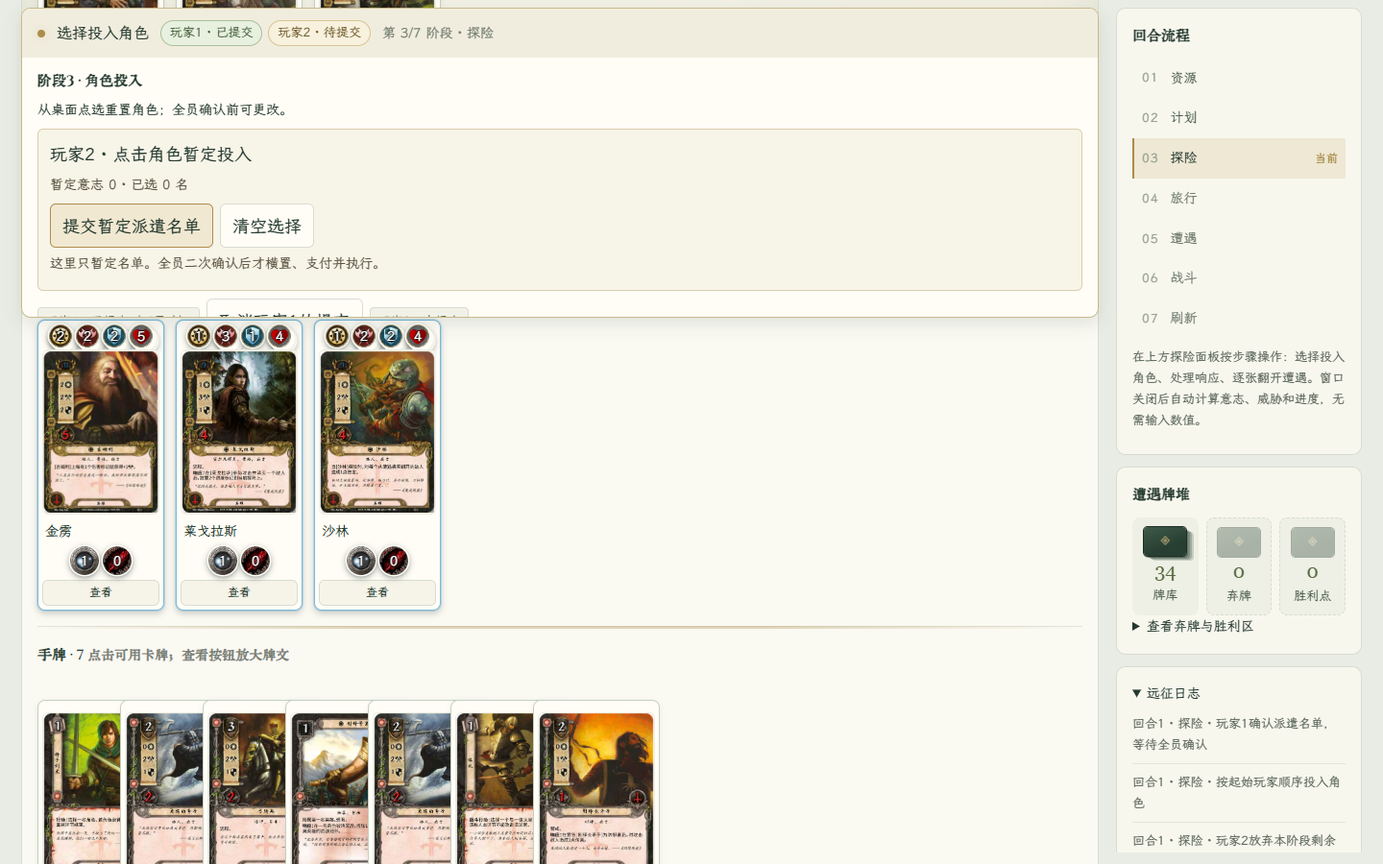
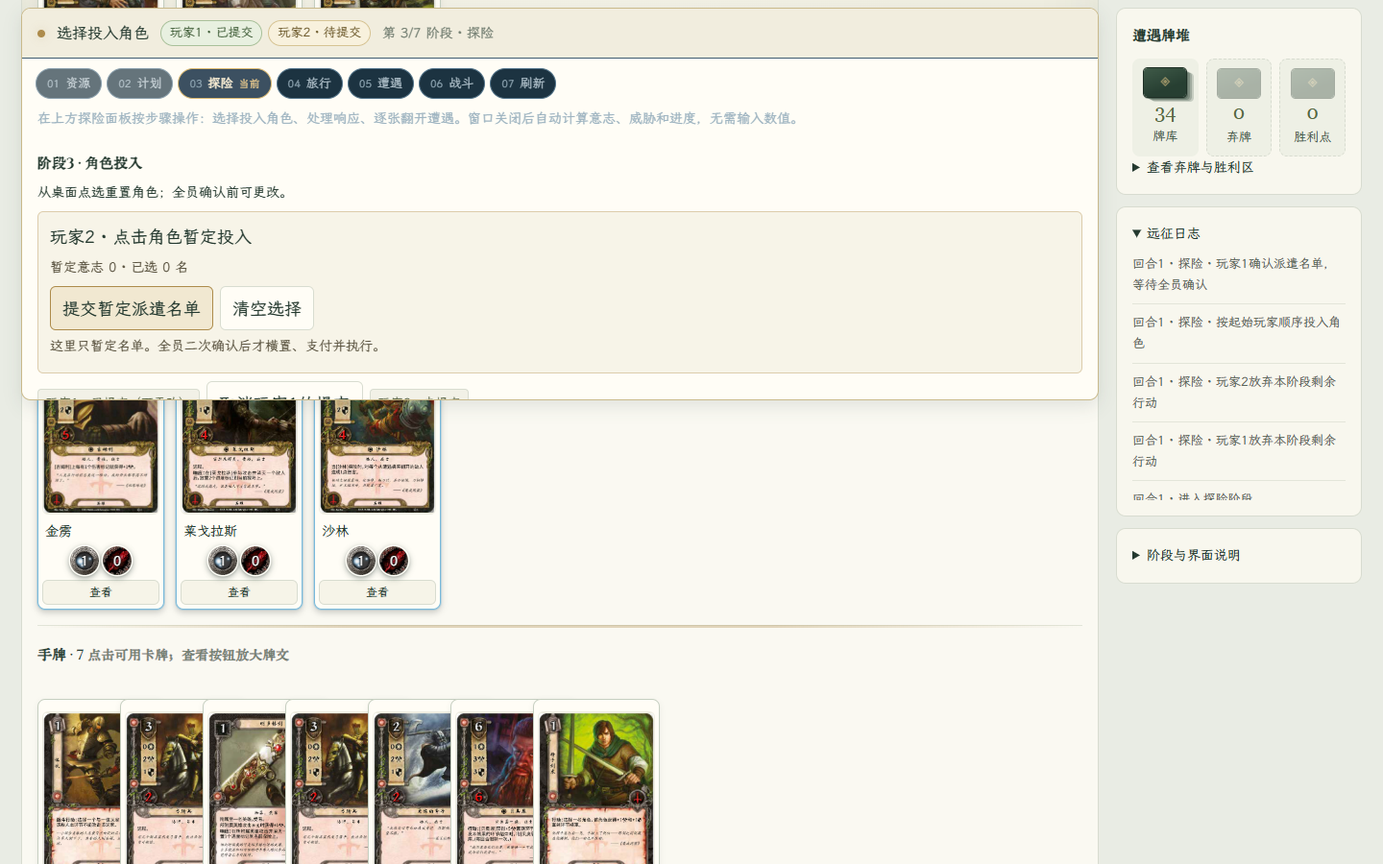
v0.15.40 回合流程与阶段操作合并：横向阶段步骤条嵌入操作面板，移除右侧竖排列表

diff --git a/index.html b/index.html
@@ -491,6 +491,17 @@ body:has(.desktop-table) .expedition-title h1{letter-spacing:-.01em}
 .hand-card.unaffordable .card-face{cursor:not-allowed}
 .hand-card.unaffordable .card-legality{color:#a35446}
 
+/* 9. v0.15.40 回合流程合并：横向阶段步骤条嵌入操作面板，右侧不再单独列表 */
+.operation-dock .phase-rail{display:flex;flex-wrap:wrap;gap:5px;padding:10px 14px 4px;border-top:1px solid #3f5d72}
+.operation-dock .rail-step{display:inline-flex;align-items:center;gap:6px;padding:4px 11px;border:1px solid #55768c;border-left-width:1px;border-radius:999px;color:#aebfc9;background:#1c3341}
+.operation-dock .rail-step>span{font-size:11px;letter-spacing:0;color:#8fa6b3}
+.operation-dock .rail-step b{font-size:13px}
+.operation-dock .rail-step small{font-size:11px;color:#e4c68c;margin-left:0}
+.operation-dock .rail-step.current{background:#3c5061;border-color:#ddbc75;color:#fff2d7}
+.operation-dock .rail-step.past{opacity:.68}
+.phase-hint{margin:0;padding:5px 16px 10px;color:#9db3c0}
+@media(max-width:760px){.operation-dock .phase-rail{padding:8px 10px 2px}.operation-dock .rail-step{padding:3px 8px}.phase-hint{padding:4px 10px 8px}}
+
 </style></head><body>
 <header><nav><button id="tableTab" class="active nav-home" title="回到首页"><svg class="brand-mark" viewBox="0 0 64 64" aria-hidden="true" focusable="false"><defs><linearGradient id="brandGold" x1="10" y1="8" x2="54" y2="57" gradientUnits="userSpaceOnUse"><stop offset="0" stop-color="#fdf4cd"/><stop offset=".32" stop-color="#e3c47a"/><stop offset=".55" stop-color="#a9853f"/><stop offset=".78" stop-color="#e8cb86"/><stop offset="1" stop-color="#fffae0"/></linearGradient><radialGradient id="brandField" cx=".5" cy=".42" r=".58"><stop offset="0" stop-color="#8a4a16"/><stop offset=".46" stop-color="#4a2a10"/><stop offset="1" stop-color="#150e07"/></radialGradient></defs><circle cx="32" cy="32" r="21" fill="#0d1710" fill-opacity=".62"/><circle cx="32" cy="32" r="21" fill="none" stroke="url(#brandGold)" stroke-width="7"/><path d="M14.6 19.2A21 21 0 0 1 32.6 10.9" fill="none" stroke="#fffbe8" stroke-width="2.4" stroke-linecap="round" opacity=".55"/></svg>首页</button><button id="catalogTab">卡牌 <span>55</span></button><button id="decksTab">我的卡组</button><button id="imagesTab">全部卡图</button><button id="helpTab">说明与完成范围</button></nav><div class="history-nav"><button id="navBack" type="button" title="后退" aria-label="后退">←</button><button id="navFwd" type="button" title="前进" aria-label="前进">→</button></div><div class="header-actions"><button id="undo">撤销一步</button><button id="export">导出存档</button><label class="button" for="import">导入存档</label><input id="import" type="file" accept="application/json" hidden></div></header>
 <main id="app"></main><div id="toast" role="status" aria-live="polite"></div>
@@ -8698,7 +8709,7 @@ const WindowUI=(()=>{
 </script><script>
 /* Tabletop view: UI drafts never pay, exhaust, reveal, or bypass phase validation. */
 /* 界面版本徽标唯一来源：须与 CHANGELOG.md 最新条目标题一致（planning-dom-tests 有校验）。 */
-const APP_VERSION='v0.15.39';
+const APP_VERSION='v0.15.40';
 const DesktopUI=(()=>{
  const E=ScenarioEngine,R=E.planning,Q=E.questing,C=E.combat,esc=x=>String(x??'').replace(/[&<>"']/g,c=>({'&':'&amp;','<':'&lt;','>':'&gt;','"':'&quot;',"'":'&#39;'}[c]));
  let combatDraft={key:'',target:null,ids:[]},draftState=null;
@@ -8821,7 +8832,7 @@ const DesktopUI=(()=>{
   /* 玩家状态条：BGA 式汇总每位玩家的威胁／资源／伤害，点按即切换查看（复用 view 动作）。 */
  const tabStats=o=>{const res=o.heroStates?o.heroStates.reduce((n,h)=>n+h.resources,0):0,dmg=o.heroStates?o.heroStates.reduce((n,h)=>n+(h.damage||0),0):0;
   return `<span class="tab-stats">威胁 <b>${o.threat}</b> · 资源 <b>${res}</b> · 伤害 <b>${dmg}</b></span>${s.first===o.id?'<span class="first-mark">起始</span>':''}${o.eliminated?'<span class="elim-mark">淘汰</span>':''}`;};
- return `<div class="desktop-table"><div class="expedition-title"><div><span class="eyebrow">MIDDLE-EARTH EXPEDITION · ${APP_VERSION}</span><h1>${esc(s.session&&s.session.name||sc.name)}</h1></div><span>${s.session&&s.session.name?esc(sc.name)+' · ':''}第 ${s.round} 回合 · ${s.players.length} 人同机${s.session&&s.session.difficulty?' · '+({easy:'简单',normal:'标准',nightmare:'噩梦'}[s.session.difficulty]||''):''}</span><div class="player-tabs" role="group" aria-label="查看玩家">${s.players.map(o=>`<button data-action="desktop" data-desktop="view" data-player="${o.id}" class="${o.id===p.id?'active':''}" aria-pressed="${o.id===p.id}"><b class="tab-name">${esc(o.name)}</b>${tabStats(o)}</button>`).join('')}</div>${b('重新选择剧本','reset')}</div><div class="tabletop-layout"><div class="tabletop-main"><div class="operation-dock" role="region" aria-label="当前操作"><div class="operation-title"><span class="operation-indicator"></span><strong>${esc(prompt(s,m))}</strong><div class="operation-chips">${status(s)?.chips||''}</div><span class="small">第 ${s.phase+1}/7 阶段 · ${E.phases[s.phase]}</span>${next(s)}</div><div class="operation-content">${scorePanel(s)}${PlayerUI.openingPanel(s)}${setupPanel(s)}${s.pending.length?pending():''}${phasePanel(s,p.id,m)}${WindowUI.panel(s)}</div></div><div class="public-table"><div class="quest-location-row"><section class="table-zone quest-zone"><div class="zone-heading"><h2>当前探险 · ${esc(q.stage)}</h2><strong>${q.points?s.progress+' / '+q.points+' 进度':'特殊胜利条件'}</strong></div><div class="quest-display"><div class="quest-art-wrap">${ImageLibrary.art('enc-'+q.id,'',s.setupPending?'A':'B')}${q.points?`<div class="card-tokens quest-tokens" aria-hidden="true">${tk('progress',s.progress)}</div>`:''}</div><div><h3>${esc(q.name)}</h3><p>${esc(s.setupPending?q.front:q.back)}</p><span class="small muted">${esc(E.gate(s)||'满足条件后由规则自动推进')}</span></div></div>${q.points?`<div class="quest-progress" role="progressbar" aria-label="探险进度" aria-valuemin="0" aria-valuemax="${q.points}" aria-valuenow="${s.progress}"><div class="quest-progress-fill" style="width:${Math.min(100,Math.round(s.progress/q.points*100))}%"></div><span class="quest-progress-label">${s.progress} / ${q.points}</span></div>`:''}</section>${row('当前地点',s.active?encounter(s,s.active,'active',m):'','active-zone')}</div>${row('探查区 <span class="threat-total">总威胁 '+E.threat(s)+'</span>',s.staging.map(c=>encounter(s,c,'staging',m)).join(''))}${s.objectives.length?row('剧本目标',s.objectives.map(c=>encounter(s,c,'objective',m)).join('')):''}${others}</div><section class="player-mat"><div class="zone-heading"><h2>${esc(p.name)} · ${esc(p.registeredDeck?.name||'玩家区域')}</h2><span class="own-piles">威胁 ${p.threat}${s.first===p.id?' · 起始玩家':''} · <span class="pile-chip">牌库 <b>${p.playerDeck.length}</b></span> · <span class="pile-chip">弃牌 <b>${p.playerDiscard.length}</b></span></span></div>${row('英雄与盟友 <span class="small muted">盟友区 · '+p.allies.length+'</span>',playerChars(s,p).map(c=>character(s,c,m)).join(''),'own-characters')}${p.attachments.length?row('附属',p.attachments.map(c=>{const meta=R.data(s,c),host=R.find(s,c.target),legal=R.abilitySpec(s,p.id,c.uid).legal;return `<article class="table-card"><button class="card-face" data-action="planning" data-plan="ability" data-player="${p.id}" data-uid="${c.uid}" ${legal?'':'disabled'}>${art(c.code)}</button><div class="table-card-caption"><b>${esc(meta.nameZh)}</b><span>附于 ${esc(host?.meta.nameZh||host?.meta.name||'目标已离场')}</span></div>${inspect(c.code)}</article>`;}).join('')):''}${p.engaged.length?row('交战区',p.engaged.map(c=>encounter(s,c,'engaged',m)).join('')):''}${row('手牌 · '+p.hand.length+' <span class="small muted">点击可用卡牌；查看按钮放大牌文</span>',hand,'hand-zone')}<p class="small muted">同机模式可切换查看每位玩家手牌；不提供联网私密手牌。</p></section></div><aside class="tabletop-rail"><section class="phase-rail"><h2>回合流程</h2>${E.phases.map((name,i)=>`<div class="rail-step ${i===s.phase?'current':i<s.phase?'past':''}" ${i===s.phase?'aria-current="step"':''}><span>${String(i+1).padStart(2,'0')}</span><b>${name}</b>${i===s.phase?'<small>当前</small>':''}</div>`).join('')}<p class="small">${esc(phaseHint())}</p></section><section class="deck-rail"><h2>遭遇牌堆</h2><div class="deck-counts">
+ return `<div class="desktop-table"><div class="expedition-title"><div><span class="eyebrow">MIDDLE-EARTH EXPEDITION · ${APP_VERSION}</span><h1>${esc(s.session&&s.session.name||sc.name)}</h1></div><span>${s.session&&s.session.name?esc(sc.name)+' · ':''}第 ${s.round} 回合 · ${s.players.length} 人同机${s.session&&s.session.difficulty?' · '+({easy:'简单',normal:'标准',nightmare:'噩梦'}[s.session.difficulty]||''):''}</span><div class="player-tabs" role="group" aria-label="查看玩家">${s.players.map(o=>`<button data-action="desktop" data-desktop="view" data-player="${o.id}" class="${o.id===p.id?'active':''}" aria-pressed="${o.id===p.id}"><b class="tab-name">${esc(o.name)}</b>${tabStats(o)}</button>`).join('')}</div>${b('重新选择剧本','reset')}</div><div class="tabletop-layout"><div class="tabletop-main"><div class="operation-dock" role="region" aria-label="当前操作"><div class="operation-title"><span class="operation-indicator"></span><strong>${esc(prompt(s,m))}</strong><div class="operation-chips">${status(s)?.chips||''}</div><span class="small">第 ${s.phase+1}/7 阶段 · ${E.phases[s.phase]}</span>${next(s)}</div><div class="phase-rail phase-steps" role="list" aria-label="回合流程">${E.phases.map((name,i)=>`<div class="rail-step ${i===s.phase?'current':i<s.phase?'past':''}" ${i===s.phase?'aria-current="step"':''}><span>${String(i+1).padStart(2,'0')}</span><b>${name}</b>${i===s.phase?'<small>当前</small>':''}</div>`).join('')}</div><p class="small phase-hint">${esc(phaseHint())}</p><div class="operation-content">${scorePanel(s)}${PlayerUI.openingPanel(s)}${setupPanel(s)}${s.pending.length?pending():''}${phasePanel(s,p.id,m)}${WindowUI.panel(s)}</div></div><div class="public-table"><div class="quest-location-row"><section class="table-zone quest-zone"><div class="zone-heading"><h2>当前探险 · ${esc(q.stage)}</h2><strong>${q.points?s.progress+' / '+q.points+' 进度':'特殊胜利条件'}</strong></div><div class="quest-display"><div class="quest-art-wrap">${ImageLibrary.art('enc-'+q.id,'',s.setupPending?'A':'B')}${q.points?`<div class="card-tokens quest-tokens" aria-hidden="true">${tk('progress',s.progress)}</div>`:''}</div><div><h3>${esc(q.name)}</h3><p>${esc(s.setupPending?q.front:q.back)}</p><span class="small muted">${esc(E.gate(s)||'满足条件后由规则自动推进')}</span></div></div>${q.points?`<div class="quest-progress" role="progressbar" aria-label="探险进度" aria-valuemin="0" aria-valuemax="${q.points}" aria-valuenow="${s.progress}"><div class="quest-progress-fill" style="width:${Math.min(100,Math.round(s.progress/q.points*100))}%"></div><span class="quest-progress-label">${s.progress} / ${q.points}</span></div>`:''}</section>${row('当前地点',s.active?encounter(s,s.active,'active',m):'','active-zone')}</div>${row('探查区 <span class="threat-total">总威胁 '+E.threat(s)+'</span>',s.staging.map(c=>encounter(s,c,'staging',m)).join(''))}${s.objectives.length?row('剧本目标',s.objectives.map(c=>encounter(s,c,'objective',m)).join('')):''}${others}</div><section class="player-mat"><div class="zone-heading"><h2>${esc(p.name)} · ${esc(p.registeredDeck?.name||'玩家区域')}</h2><span class="own-piles">威胁 ${p.threat}${s.first===p.id?' · 起始玩家':''} · <span class="pile-chip">牌库 <b>${p.playerDeck.length}</b></span> · <span class="pile-chip">弃牌 <b>${p.playerDiscard.length}</b></span></span></div>${row('英雄与盟友 <span class="small muted">盟友区 · '+p.allies.length+'</span>',playerChars(s,p).map(c=>character(s,c,m)).join(''),'own-characters')}${p.attachments.length?row('附属',p.attachments.map(c=>{const meta=R.data(s,c),host=R.find(s,c.target),legal=R.abilitySpec(s,p.id,c.uid).legal;return `<article class="table-card"><button class="card-face" data-action="planning" data-plan="ability" data-player="${p.id}" data-uid="${c.uid}" ${legal?'':'disabled'}>${art(c.code)}</button><div class="table-card-caption"><b>${esc(meta.nameZh)}</b><span>附于 ${esc(host?.meta.nameZh||host?.meta.name||'目标已离场')}</span></div>${inspect(c.code)}</article>`;}).join('')):''}${p.engaged.length?row('交战区',p.engaged.map(c=>encounter(s,c,'engaged',m)).join('')):''}${row('手牌 · '+p.hand.length+' <span class="small muted">点击可用卡牌；查看按钮放大牌文</span>',hand,'hand-zone')}<p class="small muted">同机模式可切换查看每位玩家手牌；不提供联网私密手牌。</p></section></div><aside class="tabletop-rail"><section class="deck-rail"><h2>遭遇牌堆</h2><div class="deck-counts">
 <div class="pile ${s.deck.length?'':'empty'}"><span class="pile-cards" aria-hidden="true"></span><strong>${s.deck.length}</strong><small>牌库</small></div>
 <div class="pile discard ${s.discard.length?'':'empty'}"><span class="pile-cards" aria-hidden="true"></span><strong>${s.discard.length}</strong><small>弃牌</small></div>
 <div class="pile victory ${s.victory.length?'':'empty'}"><span class="pile-cards" aria-hidden="true"></span><strong>${s.victory.reduce((n,c)=>n+(c.victory||0),0)}</strong><small>胜利点</small></div>

diff --git a/desktop-ui.js b/desktop-ui.js
@@ -1,6 +1,6 @@
 /* Tabletop view: UI drafts never pay, exhaust, reveal, or bypass phase validation. */
 /* 界面版本徽标唯一来源：须与 CHANGELOG.md 最新条目标题一致（planning-dom-tests 有校验）。 */
-const APP_VERSION='v0.15.39';
+const APP_VERSION='v0.15.40';
 const DesktopUI=(()=>{
  const E=ScenarioEngine,R=E.planning,Q=E.questing,C=E.combat,esc=x=>String(x??'').replace(/[&<>"']/g,c=>({'&':'&amp;','<':'&lt;','>':'&gt;','"':'&quot;',"'":'&#39;'}[c]));
  let combatDraft={key:'',target:null,ids:[]},draftState=null;
@@ -123,7 +123,7 @@ const DesktopUI=(()=>{
   /* 玩家状态条：BGA 式汇总每位玩家的威胁／资源／伤害，点按即切换查看（复用 view 动作）。 */
  const tabStats=o=>{const res=o.heroStates?o.heroStates.reduce((n,h)=>n+h.resources,0):0,dmg=o.heroStates?o.heroStates.reduce((n,h)=>n+(h.damage||0),0):0;
   return `<span class="tab-stats">威胁 <b>${o.threat}</b> · 资源 <b>${res}</b> · 伤害 <b>${dmg}</b></span>${s.first===o.id?'<span class="first-mark">起始</span>':''}${o.eliminated?'<span class="elim-mark">淘汰</span>':''}`;};
- return `<div class="desktop-table"><div class="expedition-title"><div><span class="eyebrow">MIDDLE-EARTH EXPEDITION · ${APP_VERSION}</span><h1>${esc(s.session&&s.session.name||sc.name)}</h1></div><span>${s.session&&s.session.name?esc(sc.name)+' · ':''}第 ${s.round} 回合 · ${s.players.length} 人同机${s.session&&s.session.difficulty?' · '+({easy:'简单',normal:'标准',nightmare:'噩梦'}[s.session.difficulty]||''):''}</span><div class="player-tabs" role="group" aria-label="查看玩家">${s.players.map(o=>`<button data-action="desktop" data-desktop="view" data-player="${o.id}" class="${o.id===p.id?'active':''}" aria-pressed="${o.id===p.id}"><b class="tab-name">${esc(o.name)}</b>${tabStats(o)}</button>`).join('')}</div>${b('重新选择剧本','reset')}</div><div class="tabletop-layout"><div class="tabletop-main"><div class="operation-dock" role="region" aria-label="当前操作"><div class="operation-title"><span class="operation-indicator"></span><strong>${esc(prompt(s,m))}</strong><div class="operation-chips">${status(s)?.chips||''}</div><span class="small">第 ${s.phase+1}/7 阶段 · ${E.phases[s.phase]}</span>${next(s)}</div><div class="operation-content">${scorePanel(s)}${PlayerUI.openingPanel(s)}${setupPanel(s)}${s.pending.length?pending():''}${phasePanel(s,p.id,m)}${WindowUI.panel(s)}</div></div><div class="public-table"><div class="quest-location-row"><section class="table-zone quest-zone"><div class="zone-heading"><h2>当前探险 · ${esc(q.stage)}</h2><strong>${q.points?s.progress+' / '+q.points+' 进度':'特殊胜利条件'}</strong></div><div class="quest-display"><div class="quest-art-wrap">${ImageLibrary.art('enc-'+q.id,'',s.setupPending?'A':'B')}${q.points?`<div class="card-tokens quest-tokens" aria-hidden="true">${tk('progress',s.progress)}</div>`:''}</div><div><h3>${esc(q.name)}</h3><p>${esc(s.setupPending?q.front:q.back)}</p><span class="small muted">${esc(E.gate(s)||'满足条件后由规则自动推进')}</span></div></div>${q.points?`<div class="quest-progress" role="progressbar" aria-label="探险进度" aria-valuemin="0" aria-valuemax="${q.points}" aria-valuenow="${s.progress}"><div class="quest-progress-fill" style="width:${Math.min(100,Math.round(s.progress/q.points*100))}%"></div><span class="quest-progress-label">${s.progress} / ${q.points}</span></div>`:''}</section>${row('当前地点',s.active?encounter(s,s.active,'active',m):'','active-zone')}</div>${row('探查区 <span class="threat-total">总威胁 '+E.threat(s)+'</span>',s.staging.map(c=>encounter(s,c,'staging',m)).join(''))}${s.objectives.length?row('剧本目标',s.objectives.map(c=>encounter(s,c,'objective',m)).join('')):''}${others}</div><section class="player-mat"><div class="zone-heading"><h2>${esc(p.name)} · ${esc(p.registeredDeck?.name||'玩家区域')}</h2><span class="own-piles">威胁 ${p.threat}${s.first===p.id?' · 起始玩家':''} · <span class="pile-chip">牌库 <b>${p.playerDeck.length}</b></span> · <span class="pile-chip">弃牌 <b>${p.playerDiscard.length}</b></span></span></div>${row('英雄与盟友 <span class="small muted">盟友区 · '+p.allies.length+'</span>',playerChars(s,p).map(c=>character(s,c,m)).join(''),'own-characters')}${p.attachments.length?row('附属',p.attachments.map(c=>{const meta=R.data(s,c),host=R.find(s,c.target),legal=R.abilitySpec(s,p.id,c.uid).legal;return `<article class="table-card"><button class="card-face" data-action="planning" data-plan="ability" data-player="${p.id}" data-uid="${c.uid}" ${legal?'':'disabled'}>${art(c.code)}</button><div class="table-card-caption"><b>${esc(meta.nameZh)}</b><span>附于 ${esc(host?.meta.nameZh||host?.meta.name||'目标已离场')}</span></div>${inspect(c.code)}</article>`;}).join('')):''}${p.engaged.length?row('交战区',p.engaged.map(c=>encounter(s,c,'engaged',m)).join('')):''}${row('手牌 · '+p.hand.length+' <span class="small muted">点击可用卡牌；查看按钮放大牌文</span>',hand,'hand-zone')}<p class="small muted">同机模式可切换查看每位玩家手牌；不提供联网私密手牌。</p></section></div><aside class="tabletop-rail"><section class="phase-rail"><h2>回合流程</h2>${E.phases.map((name,i)=>`<div class="rail-step ${i===s.phase?'current':i<s.phase?'past':''}" ${i===s.phase?'aria-current="step"':''}><span>${String(i+1).padStart(2,'0')}</span><b>${name}</b>${i===s.phase?'<small>当前</small>':''}</div>`).join('')}<p class="small">${esc(phaseHint())}</p></section><section class="deck-rail"><h2>遭遇牌堆</h2><div class="deck-counts">
+ return `<div class="desktop-table"><div class="expedition-title"><div><span class="eyebrow">MIDDLE-EARTH EXPEDITION · ${APP_VERSION}</span><h1>${esc(s.session&&s.session.name||sc.name)}</h1></div><span>${s.session&&s.session.name?esc(sc.name)+' · ':''}第 ${s.round} 回合 · ${s.players.length} 人同机${s.session&&s.session.difficulty?' · '+({easy:'简单',normal:'标准',nightmare:'噩梦'}[s.session.difficulty]||''):''}</span><div class="player-tabs" role="group" aria-label="查看玩家">${s.players.map(o=>`<button data-action="desktop" data-desktop="view" data-player="${o.id}" class="${o.id===p.id?'active':''}" aria-pressed="${o.id===p.id}"><b class="tab-name">${esc(o.name)}</b>${tabStats(o)}</button>`).join('')}</div>${b('重新选择剧本','reset')}</div><div class="tabletop-layout"><div class="tabletop-main"><div class="operation-dock" role="region" aria-label="当前操作"><div class="operation-title"><span class="operation-indicator"></span><strong>${esc(prompt(s,m))}</strong><div class="operation-chips">${status(s)?.chips||''}</div><span class="small">第 ${s.phase+1}/7 阶段 · ${E.phases[s.phase]}</span>${next(s)}</div><div class="phase-rail phase-steps" role="list" aria-label="回合流程">${E.phases.map((name,i)=>`<div class="rail-step ${i===s.phase?'current':i<s.phase?'past':''}" ${i===s.phase?'aria-current="step"':''}><span>${String(i+1).padStart(2,'0')}</span><b>${name}</b>${i===s.phase?'<small>当前</small>':''}</div>`).join('')}</div><p class="small phase-hint">${esc(phaseHint())}</p><div class="operation-content">${scorePanel(s)}${PlayerUI.openingPanel(s)}${setupPanel(s)}${s.pending.length?pending():''}${phasePanel(s,p.id,m)}${WindowUI.panel(s)}</div></div><div class="public-table"><div class="quest-location-row"><section class="table-zone quest-zone"><div class="zone-heading"><h2>当前探险 · ${esc(q.stage)}</h2><strong>${q.points?s.progress+' / '+q.points+' 进度':'特殊胜利条件'}</strong></div><div class="quest-display"><div class="quest-art-wrap">${ImageLibrary.art('enc-'+q.id,'',s.setupPending?'A':'B')}${q.points?`<div class="card-tokens quest-tokens" aria-hidden="true">${tk('progress',s.progress)}</div>`:''}</div><div><h3>${esc(q.name)}</h3><p>${esc(s.setupPending?q.front:q.back)}</p><span class="small muted">${esc(E.gate(s)||'满足条件后由规则自动推进')}</span></div></div>${q.points?`<div class="quest-progress" role="progressbar" aria-label="探险进度" aria-valuemin="0" aria-valuemax="${q.points}" aria-valuenow="${s.progress}"><div class="quest-progress-fill" style="width:${Math.min(100,Math.round(s.progress/q.points*100))}%"></div><span class="quest-progress-label">${s.progress} / ${q.points}</span></div>`:''}</section>${row('当前地点',s.active?encounter(s,s.active,'active',m):'','active-zone')}</div>${row('探查区 <span class="threat-total">总威胁 '+E.threat(s)+'</span>',s.staging.map(c=>encounter(s,c,'staging',m)).join(''))}${s.objectives.length?row('剧本目标',s.objectives.map(c=>encounter(s,c,'objective',m)).join('')):''}${others}</div><section class="player-mat"><div class="zone-heading"><h2>${esc(p.name)} · ${esc(p.registeredDeck?.name||'玩家区域')}</h2><span class="own-piles">威胁 ${p.threat}${s.first===p.id?' · 起始玩家':''} · <span class="pile-chip">牌库 <b>${p.playerDeck.length}</b></span> · <span class="pile-chip">弃牌 <b>${p.playerDiscard.length}</b></span></span></div>${row('英雄与盟友 <span class="small muted">盟友区 · '+p.allies.length+'</span>',playerChars(s,p).map(c=>character(s,c,m)).join(''),'own-characters')}${p.attachments.length?row('附属',p.attachments.map(c=>{const meta=R.data(s,c),host=R.find(s,c.target),legal=R.abilitySpec(s,p.id,c.uid).legal;return `<article class="table-card"><button class="card-face" data-action="planning" data-plan="ability" data-player="${p.id}" data-uid="${c.uid}" ${legal?'':'disabled'}>${art(c.code)}</button><div class="table-card-caption"><b>${esc(meta.nameZh)}</b><span>附于 ${esc(host?.meta.nameZh||host?.meta.name||'目标已离场')}</span></div>${inspect(c.code)}</article>`;}).join('')):''}${p.engaged.length?row('交战区',p.engaged.map(c=>encounter(s,c,'engaged',m)).join('')):''}${row('手牌 · '+p.hand.length+' <span class="small muted">点击可用卡牌；查看按钮放大牌文</span>',hand,'hand-zone')}<p class="small muted">同机模式可切换查看每位玩家手牌；不提供联网私密手牌。</p></section></div><aside class="tabletop-rail"><section class="deck-rail"><h2>遭遇牌堆</h2><div class="deck-counts">
 <div class="pile ${s.deck.length?'':'empty'}"><span class="pile-cards" aria-hidden="true"></span><strong>${s.deck.length}</strong><small>牌库</small></div>
 <div class="pile discard ${s.discard.length?'':'empty'}"><span class="pile-cards" aria-hidden="true"></span><strong>${s.discard.length}</strong><small>弃牌</small></div>
 <div class="pile victory ${s.victory.length?'':'empty'}"><span class="pile-cards" aria-hidden="true"></span><strong>${s.victory.reduce((n,c)=>n+(c.victory||0),0)}</strong><small>胜利点</small></div>

diff --git a/style.css b/style.css
@@ -488,3 +488,14 @@ body:has(.desktop-table) .expedition-title h1{letter-spacing:-.01em}
 .hand-card.unaffordable .card-face img{filter:grayscale(1) brightness(.72)}
 .hand-card.unaffordable .card-face{cursor:not-allowed}
 .hand-card.unaffordable .card-legality{color:#a35446}
+
+/* 9. v0.15.40 回合流程合并：横向阶段步骤条嵌入操作面板，右侧不再单独列表 */
+.operation-dock .phase-rail{display:flex;flex-wrap:wrap;gap:5px;padding:10px 14px 4px;border-top:1px solid #3f5d72}
+.operation-dock .rail-step{display:inline-flex;align-items:center;gap:6px;padding:4px 11px;border:1px solid #55768c;border-left-width:1px;border-radius:999px;color:#aebfc9;background:#1c3341}
+.operation-dock .rail-step>span{font-size:11px;letter-spacing:0;color:#8fa6b3}
+.operation-dock .rail-step b{font-size:13px}
+.operation-dock .rail-step small{font-size:11px;color:#e4c68c;margin-left:0}
+.operation-dock .rail-step.current{background:#3c5061;border-color:#ddbc75;color:#fff2d7}
+.operation-dock .rail-step.past{opacity:.68}
+.phase-hint{margin:0;padding:5px 16px 10px;color:#9db3c0}
+@media(max-width:760px){.operation-dock .phase-rail{padding:8px 10px 2px}.operation-dock .rail-step{padding:3px 8px}.phase-hint{padding:4px 10px 8px}}

diff --git a/CHANGELOG.md b/CHANGELOG.md
@@ -1,3 +1,9 @@
+# v0.15.40 · 回合流程与阶段操作合并为统一面板（2026-10-23）
+
+- **合并两个窗口**：右侧「回合流程」竖排列表移除，改为**横向阶段步骤条**嵌入左上操作面板（7 步 pill：编号+名称，当前金色高亮、已过淡显），阶段提示文字（`phaseHint()`）随步骤条显示在面板内——阶段浏览与阶段操作（推进/选择/确认）同处一个面板，不再来回切换。
+- **信息完整性**：7 阶段完整可见（可换行）、当前步 `aria-current="step"`、无障碍标签保留；`check-taskbar` 的 `.phase-rail` 绑定沿用（该脚本仅做存在性检查）。
+- **布局**：右侧栏仅剩遭遇牌堆/胜利区/日志/说明，操作面板 sticky 吸顶不变；移动端步骤条紧凑换行。451 项测试、check-taskbar 22 项、check-layout 15 项、browser-check 全绿。
+
 # v0.15.39 · 手牌费用检测：资源不足自动灰化（2026-10-23）
 
 - **费用校验接入视觉**：手牌渲染时复用规则引擎 `playSpec()` 的完整校验（阶段/独特性/目标/事件时机/支付方案），当**时机合法但「匹配领域的资源不足」**时，该手牌自动加 `unaffordable` 灰化类——卡图去饱和变暗、光标 not-allowed、打出按钮禁用；其他不可打出原因（时机/目标等）维持原样不变灰。
